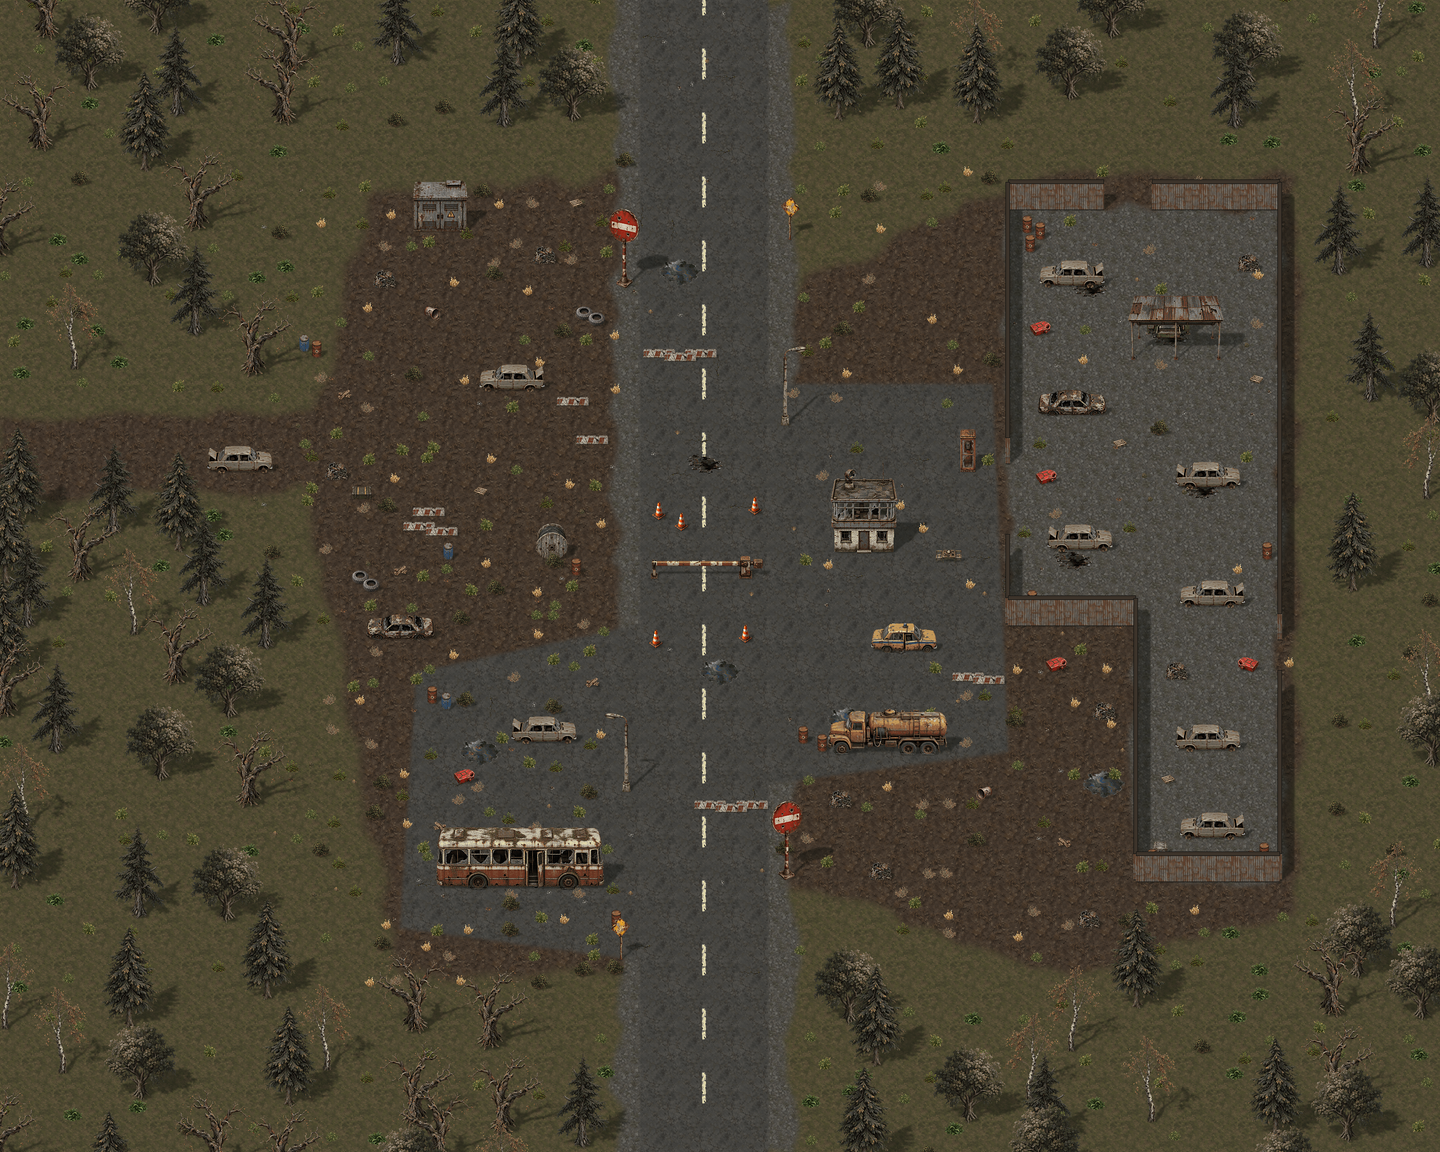
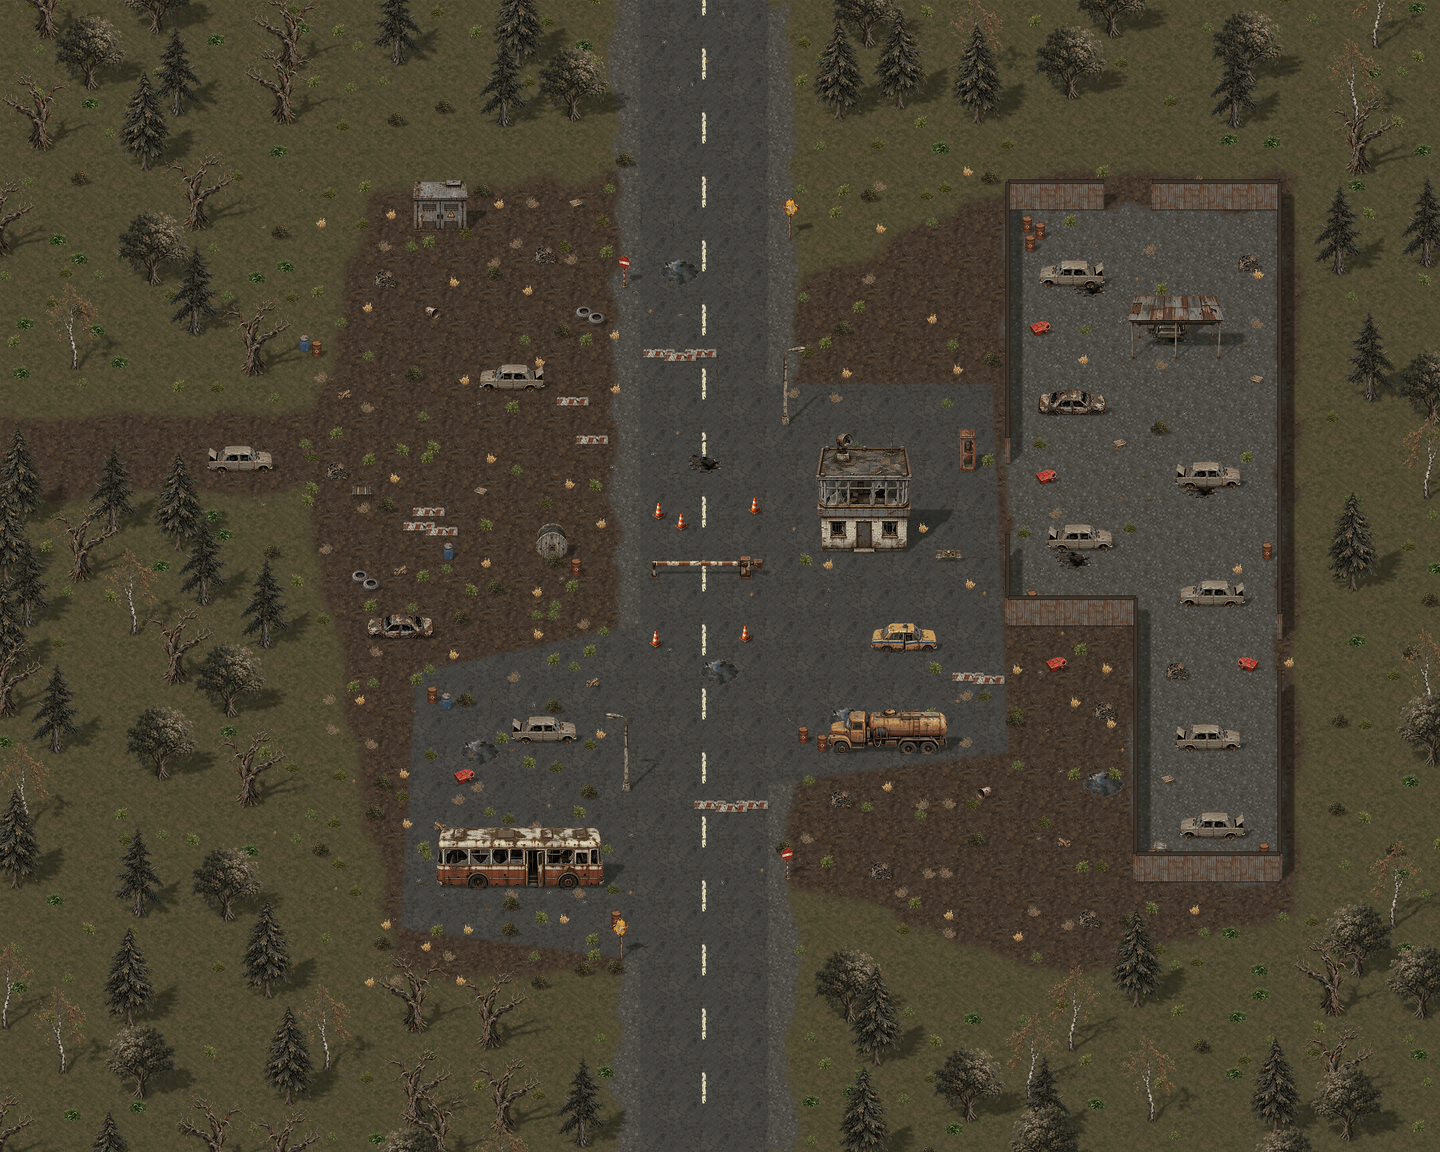
Footsteps at ~2 steps/s (was 6, samples smeared), stop sign at real size, GAI post enlarged to 6 m; no clutter upscaling for assets with a real width

Changed region(s): [[0.5625, 0.375, 0.6562, 0.5], [0.4062, 0.1875, 0.4688, 0.25], [0.5312, 0.6875, 0.5625, 0.75]]

diff --git a/game/src/Client/Footsteps.cs b/game/src/Client/Footsteps.cs
@@ -25,8 +25,15 @@ namespace Rastvordd.Client
         static readonly Dictionary<Surface, int> _last = new();
         static readonly RandomNumberGenerator _rng = new();
 
-        /// <summary>Длина шага, м: спринт — шире.</summary>
-        public static float Stride(float speed) => speed > Sim.World.WalkSpeed * 1.3f ? 1.05f : 0.75f;
+        /// <summary>
+        /// Длина шага, м. Скорость в игре выше реальной (ходьба 4,5 м/с), поэтому шаг «длинный»: темп — около 2 шагов в секунду
+        /// при ходьбе, 2,6 на бегу, 1,4 вприсядку. Иначе записи наслаиваются и сливаются в кашу.
+        /// </summary>
+        public static float Stride(float speed, bool crouch = false)
+        {
+            float rate = crouch ? 1.4f : speed > Sim.World.WalkSpeed * 1.3f ? 2.6f : 2.0f;
+            return speed / rate;
+        }
 
         public static void Play(Surface s, Vector2 posPx, float volumeDb, float hearM)
         {

diff --git a/scripts/process-assets.py b/scripts/process-assets.py
@@ -124,7 +124,7 @@ def process(a: dict, src: pathlib.Path) -> tuple[Image.Image, Image.Image]:
     h_hd = max(8, round(a["h"] * PX_HD))
     hd = im.resize((max(1, round(im.width * h_hd / im.height)), h_hd), Image.LANCZOS)
     # мелочи на земле — крупнее реальных, иначе в пикселе не читаются
-    h_px = max(4, round(a["h"] * PX_PIXEL * (1.9 if a["cat"] == "clutter" else 1.0)))
+    h_px = max(4, round(a["h"] * PX_PIXEL * (1.9 if a["cat"] == "clutter" and not a.get("w") else 1.0)))   # заданная ширина — реальный размер, без укрупнения
     keep = _global_palette
     if a["cat"] in OWN_PALETTE_CATS:
         # трава и растения: своя палитра — в общей мало зелёного, и они превращались в тёмные кляксы

diff --git a/game/src/Sim/Tier0Layouts.g.cs b/game/src/Sim/Tier0Layouts.g.cs
@@ -33,7 +33,7 @@ namespace Rastvordd.Sim
             ["subst_relay_cabinet"] = (1.2f, 0.6f, 1.8f, false),
             ["subst_insulator_pallet"] = (1.2f, 1.0f, 1.0f, false),
             ["subst_reel_stack"] = (2.4f, 1.0f, 1.2f, false),
-            ["gai_post"] = (4.2f, 4.2f, 3.0f, false),
+            ["gai_post"] = (5.6f, 5.0f, 3.0f, false),
             ["gai_barrier"] = (7.0f, 0.5f, 1.1f, true),
             ["car_police_2101"] = (4.1f, 1.7f, 1.4f, false),
             ["car_zhiguli_wreck"] = (4.1f, 1.7f, 1.4f, false),

diff --git a/game/src/Client/Main.cs b/game/src/Client/Main.cs
@@ -900,7 +900,7 @@ else if (arg == "--atcrate")
             if (speed < 0.5f) return;
             _stepAcc.TryGetValue(id, out var acc);
             acc += speed * dt;
-            if (acc >= Footsteps.Stride(speed))
+            if (acc >= Footsteps.Stride(speed, crouch))
             {
                 acc = 0;
                 bool sprint = speed > Sim.World.WalkSpeed * 1.3f;

diff --git a/docs/ideas-log.md b/docs/ideas-log.md
@@ -247,3 +247,4 @@
 - Пользователь: описание — покороче.
 - Пользователь: перенести тир 0 в игру; как их лутать — «будет секрет, разберусь по ходу». Проблема: при виде спереди двери на боковых/задних стенах не видно — нужны подсказки: у гаражных ворот пандус, у дверей крыльцо и т.п., чтобы было понятно, где вход, и не тыкаться в стену наугад; в РТ должно быть понятно, как зайти.
 - Пользователь: чтобы было «пушка-бомба» — источники освещения и немного трассировки лучей (красивый свет), «конфетка».
+- Пользователь: шаги очень быстрые, сливаются в кашу. Знак «стоп» огромный, а будка ГАИ очень маленькая — сравнивать размеры зданий и предметов между собой. Нагенерировать огромную библиотеку заготовок для открытого мира и РТ: столы, стулья, вся мебель, полки, разные ящики, вентиляции, разные крыши, разные стены, заборы, автомобили — из реального мира, понятное русскому человеку. Не только прямо и не только под 3/4 — ракурсы распределять равномерно, чтобы не было топорно.
